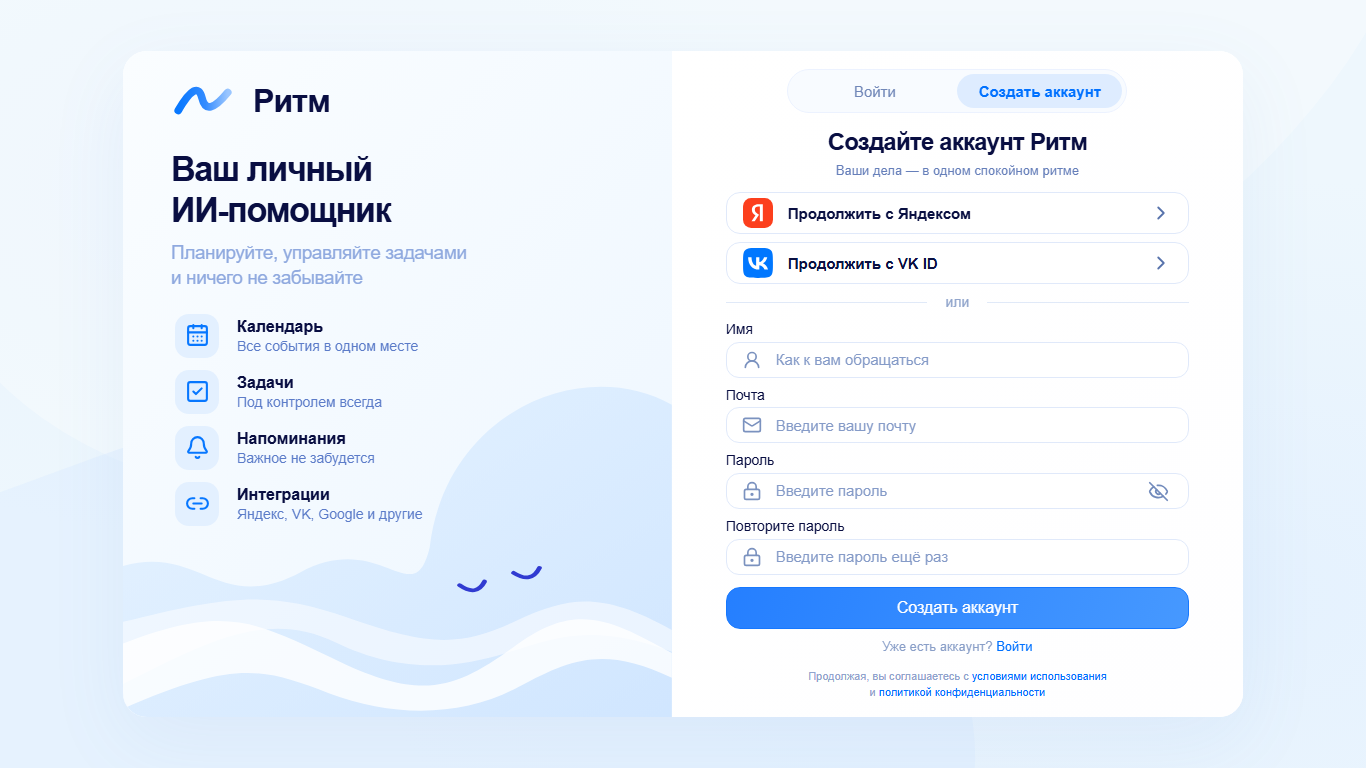
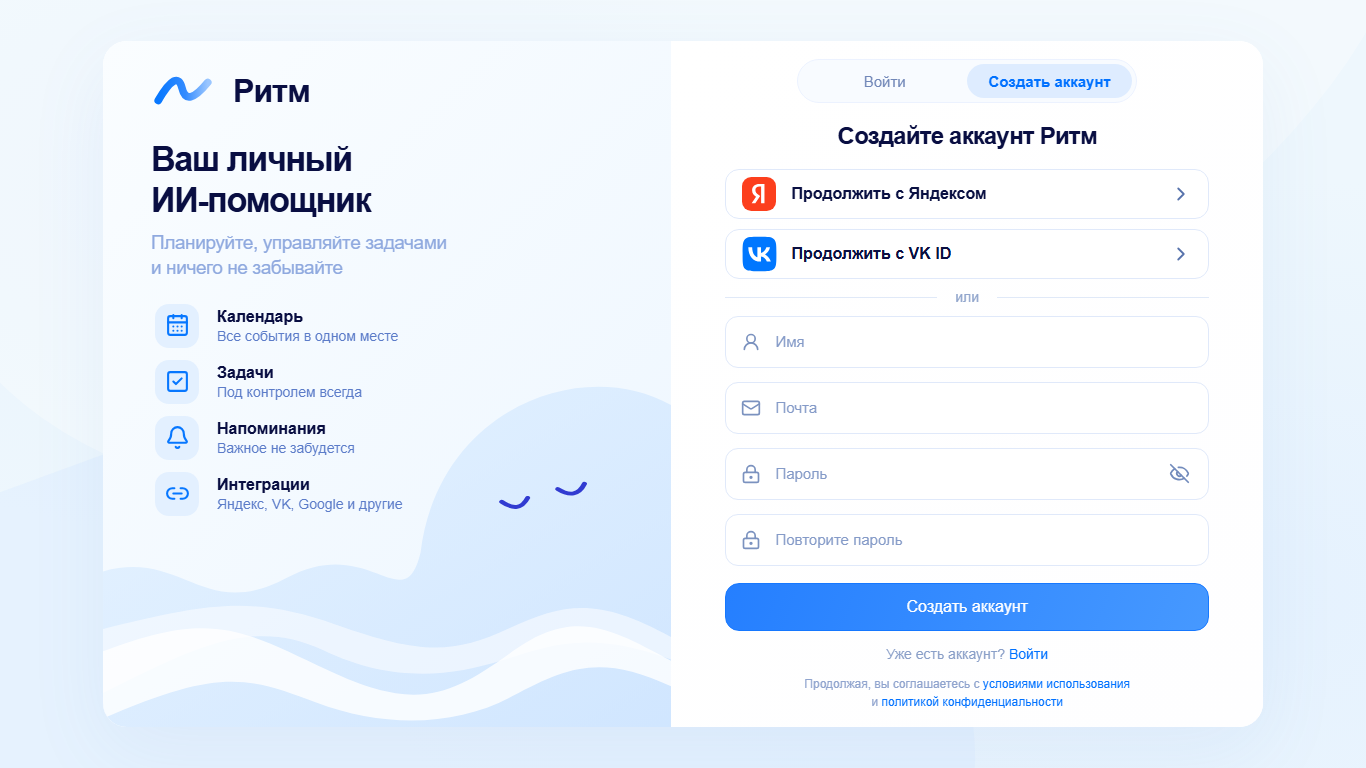
fix(auth): animate tabs and move labels into larger fields

diff --git a/web/src/styles/auth.css b/web/src/styles/auth.css
@@ -1,23 +1,28 @@
 .auth-page{min-height:100dvh;padding:32px max(20px,5vw);display:flex;justify-content:center;align-items:center;color:#090e42;background:radial-gradient(ellipse at 22% 24%,#dcecff66,transparent 44%),radial-gradient(ellipse at 88% 78%,#dcecff88,transparent 50%),#eef7fd;position:relative;isolation:isolate;font-family:Arial,'Segoe UI',sans-serif}
 html:has(.auth-page),html:has(.auth-splash){scrollbar-gutter:auto}
 .auth-page::before,.auth-page::after{content:'';position:fixed;z-index:-1;border-radius:47%;background:#fff5;pointer-events:none;width:115vw;height:68vw;transform:rotate(-20deg);top:-35vw;left:-9vw}.auth-page::after{top:58vh;left:-42vw;background:#d9ecff66}
-.auth-container{--form-gap:14px;--field-height:44px;--label-gap:6px;--oauth-height:54px;--primary-height:48px;width:1120px;max-width:100%;border-radius:24px;overflow:hidden;display:grid;grid-template-columns:49% 51%;box-shadow:0 24px 80px #548ac814;background:white;animation:auth-enter .6s cubic-bezier(.2,.7,.2,1) both;transition:opacity .24s ease,transform .24s ease}.auth-success{opacity:0;transform:scale(.985)}
+.auth-container{--form-gap:16px;--field-height:56px;--oauth-height:54px;--primary-height:50px;width:1160px;max-width:100%;border-radius:24px;overflow:hidden;display:grid;grid-template-columns:49% 51%;box-shadow:0 24px 80px #548ac814;background:white;animation:auth-enter .6s cubic-bezier(.2,.7,.2,1) both;transition:opacity .24s ease,transform .24s ease}.auth-success{opacity:0;transform:scale(.985)}
 .auth-information{padding:38px 48px;position:relative;overflow:hidden;background:linear-gradient(135deg,#fafdff,#edf6ff)}.auth-brand{display:flex;align-items:center;gap:18px;font-size:32px;font-weight:700;letter-spacing:-.9px;position:relative;z-index:1}.auth-brand .brand-mark,.auth-mobile-brand .brand-mark{color:#2783ff;width:64px;height:40px}.auth-brand,.auth-pitch,.auth-features{animation:auth-enter .65s cubic-bezier(.2,.7,.2,1) both}
 .auth-pitch{margin-top:36px;position:relative;z-index:1;animation-delay:.07s}.auth-pitch h1{font-size:38px;letter-spacing:-1.3px;line-height:1.21;font-weight:720}.auth-pitch>p{color:#8fa9df;font-size:21px;line-height:1.3;margin-top:10px;letter-spacing:-.4px}.auth-features{position:relative;z-index:1;padding:0;margin:28px 0 0 4px;list-style:none;display:grid;gap:14px;animation-delay:.14s}.auth-features li{display:flex;align-items:center;gap:18px}.auth-features li>span{display:grid;place-items:center;width:44px;height:44px;flex-shrink:0;border-radius:14px;background:#e3f0ff;color:#0777ff}.auth-features li>span>svg{width:25px;height:25px}.auth-features strong{font-size:16px;font-weight:650}.auth-features p{font-size:14px;color:#5c7cc9;margin-top:2px}
 .auth-waves{position:absolute;bottom:-4px;left:0;width:100%;height:60%;pointer-events:none}.auth-wave-face{animation:auth-float 6s ease-in-out infinite}.auth-card{padding:30px 54px 26px;display:flex;flex-direction:column;min-width:0;background:linear-gradient(130deg,#fff,#fefeff)}.auth-mobile-brand{display:none}
-.auth-segment{position:relative;align-self:center;width:340px;max-width:100%;border:1px solid #ecf2ff;border-radius:22px;background:#f8fbff;height:44px;padding:4px;display:grid;grid-template-columns:1fr 1fr;flex-shrink:0}.auth-segment>span{position:absolute;top:4px;bottom:4px;left:4px;width:calc(50% - 4px);border-radius:17px;background:#deecff;transition:transform .32s cubic-bezier(.2,.7,.2,1)}.auth-segment>span.register-selected{transform:translateX(100%)}.auth-segment button{position:relative;z-index:1;padding:0;border:0;background:transparent;color:#7187b8;font-size:15px}.auth-segment button[aria-selected='true']{color:#0071ff;font-weight:650}
-.auth-experience{opacity:1;transform:translateX(0);transition:opacity .16s ease,transform .2s ease}.auth-switching{opacity:0;transform:translateX(-8px)}.auth-welcome{text-align:center;margin:24px -12px 22px}.auth-welcome h2{font-size:28px;font-weight:700;letter-spacing:-.8px;line-height:1.25}.auth-welcome p{color:#667fba;font-size:15px;line-height:1.3;margin-top:8px}.auth-oauth{display:grid;gap:10px}.auth-oauth>button{border:1px solid #e0e9fa;border-radius:14px;min-height:var(--oauth-height);display:flex;align-items:center;gap:15px;padding:7px 16px;color:#0a1042;background:#fff;text-align:left;font-size:16px;font-weight:550;transition:transform .18s ease,box-shadow .18s ease,border-color .18s ease}.auth-oauth>button>svg{margin-left:auto;color:#5873ac;flex-shrink:0}.auth-oauth>button:hover:not(:disabled){transform:translateY(-1px);border-color:#a5c8ff;box-shadow:0 5px 15px #336bc40d}.auth-oauth>button:active:not(:disabled){transform:scale(.99)}
+.auth-segment{position:relative;align-self:center;width:340px;max-width:100%;border:1px solid #ecf2ff;border-radius:22px;background:#f8fbff;height:44px;padding:4px;display:grid;grid-template-columns:1fr 1fr;flex-shrink:0}.auth-segment>span{position:absolute;top:4px;bottom:4px;left:4px;width:calc(50% - 4px);border-radius:17px;background:#deecff;transition:transform .48s cubic-bezier(.22,1,.36,1)}.auth-segment>span.register-selected{transform:translateX(100%)}.auth-segment button{position:relative;z-index:1;padding:0;border:0;background:transparent;color:#7187b8;font-size:15px}.auth-segment button[aria-selected='true']{color:#0071ff;font-weight:650}
+.auth-experience{display:flow-root;animation:auth-form-enter .4s cubic-bezier(.22,1,.36,1)}.auth-experience-size{overflow:clip}.auth-welcome{text-align:center;margin:24px -12px 22px}.auth-welcome h2{font-size:28px;font-weight:700;letter-spacing:-.8px;line-height:1.25}.auth-welcome p{color:#667fba;font-size:15px;line-height:1.3;margin-top:8px}.auth-oauth{display:grid;gap:10px}.auth-oauth>button{border:1px solid #e0e9fa;border-radius:14px;min-height:var(--oauth-height);display:flex;align-items:center;gap:15px;padding:7px 16px;color:#0a1042;background:#fff;text-align:left;font-size:16px;font-weight:550;transition:transform .18s ease,box-shadow .18s ease,border-color .18s ease}.auth-oauth>button>svg{margin-left:auto;color:#5873ac;flex-shrink:0}.auth-oauth>button:hover:not(:disabled){transform:translateY(-1px);border-color:#a5c8ff;box-shadow:0 5px 15px #336bc40d}.auth-oauth>button:active:not(:disabled){transform:scale(.99)}
 .oauth-logo{width:34px;height:34px;display:flex;align-items:center;justify-content:center;flex-shrink:0}.oauth-logo img{display:block;width:100%;height:auto;flex-shrink:0}.oauth-logo-vk img{width:127.2727%}.auth-divider{display:flex;align-items:center;gap:18px;margin:18px 0;color:#91a5cc;font-size:14px;line-height:1.2}.auth-divider span{height:1px;flex:1;background:#e0e9f8}
-.auth-form{display:flex;flex-direction:column;gap:var(--form-gap)}.auth-label{display:flex;flex-direction:column;gap:var(--label-gap);font-size:14px;line-height:1.2}.auth-input{display:flex;align-items:center;border:1px solid #e0e9fa;border-radius:13px;height:var(--field-height);color:#7b92bf;padding:0 15px;gap:14px;background:#fff;transition:box-shadow .2s ease,border-color .2s ease}.auth-input:focus-within{border-color:#72aaff;box-shadow:0 0 0 4px #1679ff12}.auth-input>svg{flex-shrink:0;width:20px;height:20px}.auth-input input{width:100%;min-width:0;outline:0;border:0;border-radius:0;padding:0;background:transparent;font-size:15px;line-height:1.3;box-shadow:none}.auth-input input::placeholder{color:#859bc8}.auth-input button{border:0;background:none;color:#728bbc;display:grid;place-items:center;padding:4px;margin-right:0}.auth-forgot{align-self:flex-end;color:#0071ff;font-size:13px;line-height:1.3;border:0;background:none;padding:0 4px;margin-top:-4px}
+.auth-form{display:flex;flex-direction:column;gap:var(--form-gap)}.auth-label{display:block;line-height:1.2}.auth-input{display:flex;align-items:center;border:1px solid #e0e9fa;border-radius:13px;height:var(--field-height);color:#7b92bf;padding:0 15px;gap:14px;background:#fff;transition:box-shadow .2s ease,border-color .2s ease}.auth-input:focus-within{border-color:#72aaff;box-shadow:0 0 0 4px #1679ff12}.auth-input>svg{flex-shrink:0;width:20px;height:20px}.auth-input-content{position:relative;flex:1;min-width:0;height:100%;display:flex;align-items:center}.auth-input input{width:100%;height:100%;min-width:0;outline:0;border:0;border-radius:0;padding:15px 0 0;background:transparent;font-size:16px;line-height:1.3;box-shadow:none}.auth-input-label{position:absolute;left:0;top:50%;transform:translateY(-50%);font-size:15px;color:#859bc8;pointer-events:none;transition:top .18s ease,transform .18s ease,font-size .18s ease,color .18s ease}.auth-input:focus-within .auth-input-label,.auth-input input:not(:placeholder-shown)+.auth-input-label{top:7px;transform:none;font-size:11px;color:#667fba}.auth-input button{border:0;background:none;color:#728bbc;display:grid;place-items:center;width:38px;height:38px;padding:8px;margin-right:-6px;flex-shrink:0}.auth-forgot{align-self:flex-end;color:#0071ff;font-size:13px;line-height:1.3;border:0;background:none;padding:0 4px;margin-top:-4px}
 .auth-primary{border:1px solid #1678ff;border-radius:14px;min-height:var(--primary-height,56px);width:100%;padding:9px 16px;display:flex;align-items:center;justify-content:center;gap:12px;background:linear-gradient(110deg,#257fff,#50a0ff);color:#fff;font-size:16px;font-weight:500;transition:transform .2s ease,box-shadow .2s ease,background-position .3s ease;background-size:130% 100%}.auth-form>.auth-primary{margin-top:3px}.auth-primary:hover:not(:disabled){transform:translateY(-1px);background-position:100% 0;box-shadow:0 7px 18px #287eff29}.auth-primary:active:not(:disabled){transform:scale(.99)}.auth-primary:disabled{opacity:.72}.auth-alternate{text-align:center;color:#8a9fc8;margin-top:14px;font-size:14px;line-height:1.3}.auth-alternate button{padding:0;color:#0071ff;border:0;background:none}.auth-legal{text-align:center;font-size:12px;color:#90a4ce;line-height:1.5;margin-top:auto;padding-top:22px}.auth-legal a{color:#0071ff}
 .auth-error,.auth-help{border-radius:12px;padding:11px 14px;background:#fff1f2;color:#b32c46;font-size:14px;line-height:1.45;animation:auth-enter .2s ease both}.auth-help{color:#5873aa;background:#eff6ff}.auth-register-field{display:grid;grid-template-rows:0fr;transition:grid-template-rows .32s ease;margin-top:calc(-1 * var(--form-gap))}.auth-register-field>div{overflow:hidden}.auth-register-field.expanded{grid-template-rows:1fr;margin-top:0}.auth-spinner{animation:auth-spin .9s linear infinite}
-.auth-register{--form-gap:10px;--field-height:38px;--label-gap:4px;--oauth-height:44px;--primary-height:44px}.auth-register .auth-card{padding-top:22px;padding-bottom:20px}.auth-register .auth-welcome{margin-top:16px;margin-bottom:14px}.auth-register .auth-welcome h2{font-size:26px}.auth-register .auth-welcome p{margin-top:6px;font-size:14px}.auth-register .auth-oauth{gap:8px}.auth-register .auth-oauth>button{padding-top:5px;padding-bottom:5px;font-size:15px}.auth-register .oauth-logo{width:30px;height:30px}.auth-register .auth-divider{margin:12px 0}.auth-register .auth-alternate{margin-top:10px;font-size:13px}.auth-register .auth-legal{padding-top:14px;font-size:11px}
+.auth-register{--form-gap:16px;--field-height:56px;--oauth-height:52px;--primary-height:50px}.auth-register .auth-card{padding-top:28px;padding-bottom:26px}.auth-register .auth-welcome{margin-top:24px;margin-bottom:24px}.auth-register .auth-welcome h2{font-size:28px}.auth-register .auth-oauth{gap:10px}.auth-register .auth-oauth>button{padding-top:7px;padding-bottom:7px;font-size:16px}.auth-register .oauth-logo{width:34px;height:34px}.auth-register .auth-divider{margin:18px 0}.auth-register .auth-alternate{margin-top:14px;font-size:14px}.auth-register .auth-legal{padding-top:18px;font-size:12px}
 .auth-splash{min-height:100dvh;display:flex;flex-direction:column;align-items:center;justify-content:center;gap:22px;color:#1979ff;background:#f3f8ff;font-size:24px}.auth-splash .auth-primary{width:200px}.auth-policy{max-width:700px;padding:44px;background:white;border-radius:24px;display:grid;gap:24px;line-height:1.6}.auth-policy h1{font-size:30px}
 .onboarding-card{position:relative;overflow:hidden;width:680px;min-height:690px;border-radius:26px;background:linear-gradient(150deg,#fff,#f0f7ff);padding:43px 65px;box-shadow:0 24px 80px #548ac814;text-align:center;animation:auth-enter .5s ease both}.onboarding-card>.auth-brand{justify-content:center;font-size:30px;gap:15px}.onboarding-card>.auth-brand .brand-mark{width:60px}.onboarding-card .auth-waves{height:34%;opacity:.6;z-index:0}.onboarding-step{position:relative;z-index:1;animation:auth-enter .35s ease both;padding-top:34px}.onboarding-symbol{display:grid;place-items:center;margin:0 auto 23px;width:82px;height:82px;border-radius:25px;color:#1678ff;background:#e5f0ff}.onboarding-symbol .brand-mark{width:55px}.onboarding-step h1{font-size:33px;letter-spacing:-.8px}.onboarding-step>p{margin:16px auto 26px;color:#748bb9;font-size:18px;line-height:1.5;max-width:450px}.onboarding-step .onboarding-note{font-size:14px;margin-top:-10px}.onboarding-later{border:0;background:none;color:#6b83b8;padding:18px}.onboarding-dots{position:relative;z-index:1;display:flex;gap:8px;justify-content:center;margin-top:32px}.onboarding-dots span{width:7px;height:7px;border-radius:50%;background:#ccddf4;transition:width .2s ease}.onboarding-dots .active{background:#2280ff;width:23px;border-radius:8px}
 .account-profile{display:flex;align-items:center;gap:16px;margin:20px 0}.account-avatar{display:grid;place-items:center;width:58px;height:58px;border-radius:50%;background:#e8f1ff;color:#1678ff;font-size:21px;overflow:hidden}.account-avatar img,.avatar img{width:100%;height:100%;object-fit:cover}.account-methods{display:grid;gap:12px;margin-bottom:22px}.account-methods>div{display:flex;align-items:center;justify-content:space-between}.account-methods span{color:#7385aa;font-size:14px}
+@keyframes auth-form-enter{from{opacity:0;transform:translateY(8px)}to{opacity:1;transform:translateY(0)}}@keyframes auth-form-fade{from{opacity:.45}to{opacity:1}}
 @keyframes auth-enter{from{opacity:0;transform:translateY(13px)}to{opacity:1;transform:translateY(0)}}@keyframes auth-float{0%,100%{transform:translateY(0)}50%{transform:translateY(-3px)}}@keyframes auth-spin{to{transform:rotate(360deg)}}
 @media(max-width:1100px){.auth-page{padding:24px}.auth-information{padding:32px}.auth-pitch h1{font-size:34px}.auth-pitch>p{font-size:18px}.auth-card{padding-left:32px;padding-right:32px}.auth-welcome h2{font-size:25px}.auth-features li{gap:14px}.auth-features p{font-size:13px}}
 @media(max-width:760px){.auth-page{padding:16px}.auth-container{display:block;border-radius:22px;width:450px}.auth-information{display:none}.auth-card{padding:22px 24px}.auth-mobile-brand{display:flex;align-items:center;justify-content:center;gap:12px;font-size:27px;font-weight:700;margin-bottom:18px}.auth-mobile-brand .brand-mark{width:50px;height:32px}.auth-segment{width:100%}.auth-welcome{margin:22px 0 20px}.auth-welcome h2{font-size:24px;letter-spacing:-.6px}.auth-welcome p{font-size:14px}.auth-oauth>button{font-size:15px;padding-left:13px;padding-right:13px;gap:12px}.auth-input{gap:12px;padding:0 13px}.auth-input input{font-size:16px}.auth-legal{font-size:11px;padding-top:18px}.auth-register .auth-mobile-brand{margin-bottom:14px}.onboarding-card{padding:30px 24px;min-height:650px}.onboarding-step h1{font-size:29px}.onboarding-step>p{font-size:16px}.onboarding-step .auth-primary{font-size:15px}.auth-policy{padding:26px}}
-@media(max-height:850px){.auth-page{padding-top:12px;padding-bottom:12px}.auth-container{--form-gap:12px;--oauth-height:48px;--primary-height:44px}.auth-card{padding-top:20px;padding-bottom:18px}.auth-welcome{margin-top:18px;margin-bottom:18px}.auth-welcome h2{font-size:25px}.auth-welcome p{margin-top:6px;font-size:14px}.auth-oauth{gap:8px}.auth-oauth>button{padding-top:6px;padding-bottom:6px}.auth-divider{margin:14px 0}.auth-alternate{margin-top:12px;font-size:13px}.auth-legal{padding-top:16px;font-size:11px}.auth-information{padding-top:30px}.auth-pitch{margin-top:28px}.auth-pitch h1{font-size:34px}.auth-pitch>p{font-size:19px}.auth-features{margin-top:23px;gap:12px}.auth-waves{height:55%}.auth-register{--form-gap:9px;--field-height:36px;--label-gap:4px;--oauth-height:42px;--primary-height:42px}.auth-register .auth-card{padding-top:18px;padding-bottom:16px}.auth-register .auth-welcome{margin-top:14px;margin-bottom:12px}.auth-register .auth-welcome h2{font-size:24px}.auth-register .auth-welcome p{font-size:13px}.auth-register .auth-divider{margin:10px 0}.auth-register .auth-legal{padding-top:12px}}
-@media(max-height:760px){.auth-page{padding-top:8px;padding-bottom:8px}.auth-container{--form-gap:10px;--field-height:40px;--oauth-height:42px;--primary-height:42px}.auth-card{padding-top:16px;padding-bottom:16px}.auth-welcome{margin-top:14px;margin-bottom:14px}.auth-welcome h2{font-size:24px}.auth-divider{margin:12px 0}.auth-oauth>button{padding-top:5px;padding-bottom:5px}.oauth-logo{width:30px;height:30px}.auth-mobile-brand{font-size:24px;margin-bottom:12px}.auth-mobile-brand .brand-mark{width:44px;height:28px}.auth-information{padding-top:24px}.auth-pitch{margin-top:24px}.auth-pitch h1{font-size:32px}.auth-pitch>p{font-size:18px}.auth-features{gap:10px;margin-top:20px}.auth-features li>span{width:40px;height:40px}.auth-register{--form-gap:8px;--field-height:34px;--label-gap:3px;--oauth-height:38px;--primary-height:40px}.auth-register .auth-card{padding-top:12px;padding-bottom:12px}.auth-register .auth-segment{height:38px}.auth-register .auth-welcome{margin-top:12px;margin-bottom:10px}.auth-register .auth-welcome h2{font-size:23px}.auth-register .auth-welcome p{margin-top:4px;font-size:12px}.auth-register .auth-oauth{gap:6px}.auth-register .auth-oauth>button{padding-top:4px;padding-bottom:4px}.auth-register .oauth-logo{width:28px;height:28px}.auth-register .auth-divider{margin:8px 0}.auth-register .auth-label{font-size:13px}.auth-register .auth-alternate{margin-top:8px;font-size:12px}.auth-register .auth-legal{padding-top:10px;font-size:10px}.auth-register .auth-mobile-brand{margin-bottom:10px}}
+@media(max-height:850px){.auth-page{padding-top:12px;padding-bottom:12px}.auth-container{--form-gap:14px;--field-height:54px;--oauth-height:50px;--primary-height:48px}.auth-card{padding-top:20px;padding-bottom:18px}.auth-welcome{margin-top:18px;margin-bottom:18px}.auth-welcome h2{font-size:25px}.auth-welcome p{margin-top:6px;font-size:14px}.auth-oauth{gap:8px}.auth-oauth>button{padding-top:6px;padding-bottom:6px}.auth-divider{margin:14px 0}.auth-alternate{margin-top:12px;font-size:13px}.auth-legal{padding-top:16px;font-size:11px}.auth-information{padding-top:30px}.auth-pitch{margin-top:28px}.auth-pitch h1{font-size:34px}.auth-pitch>p{font-size:19px}.auth-features{margin-top:23px;gap:12px}.auth-waves{height:55%}.auth-register{--form-gap:14px;--field-height:52px;--oauth-height:48px;--primary-height:48px}.auth-register .auth-card{padding-top:18px;padding-bottom:16px}.auth-register .auth-welcome{margin-top:18px;margin-bottom:18px}.auth-register .auth-welcome h2{font-size:24px}.auth-register .auth-divider{margin:10px 0}.auth-register .auth-legal{padding-top:12px}}
+@media(max-height:760px){.auth-page{padding-top:8px;padding-bottom:8px}.auth-container{--form-gap:12px;--field-height:50px;--oauth-height:46px;--primary-height:46px}.auth-card{padding-top:16px;padding-bottom:16px}.auth-welcome{margin-top:14px;margin-bottom:14px}.auth-welcome h2{font-size:24px}.auth-divider{margin:12px 0}.auth-oauth>button{padding-top:5px;padding-bottom:5px}.oauth-logo{width:30px;height:30px}.auth-mobile-brand{font-size:24px;margin-bottom:12px}.auth-mobile-brand .brand-mark{width:44px;height:28px}.auth-information{padding-top:24px}.auth-pitch{margin-top:24px}.auth-pitch h1{font-size:32px}.auth-pitch>p{font-size:18px}.auth-features{gap:10px;margin-top:20px}.auth-features li>span{width:40px;height:40px}.auth-register{--form-gap:12px;--field-height:48px;--oauth-height:46px;--primary-height:46px}.auth-register .auth-card{padding-top:12px;padding-bottom:12px}.auth-register .auth-segment{height:38px}.auth-register .auth-welcome{margin-top:16px;margin-bottom:16px}.auth-register .auth-welcome h2{font-size:23px}.auth-register .auth-oauth{gap:8px}.auth-register .auth-oauth>button{padding-top:4px;padding-bottom:4px}.auth-register .oauth-logo{width:28px;height:28px}.auth-register .auth-divider{margin:8px 0}.auth-register .auth-alternate{margin-top:8px;font-size:12px}.auth-register .auth-legal{padding-top:10px;font-size:10px}.auth-register .auth-mobile-brand{margin-bottom:10px}}
 @media(prefers-reduced-motion:reduce){.auth-page *,.auth-page *::before,.auth-page *::after{animation:none!important;transition:none!important}.auth-oauth>button:hover,.auth-primary:hover{transform:none}}
+
+/* Keep the requested tab feedback subtle even when the browser disables decorative motion. */
+.auth-page .auth-segment>span{transition:transform .48s cubic-bezier(.22,1,.36,1)!important}
+@media(prefers-reduced-motion:reduce){.auth-page .auth-segment>span{transition-duration:.3s!important}.auth-page .auth-experience{animation:auth-form-fade .2s ease!important}}

diff --git a/web/src/pages/Auth/AuthPage.tsx b/web/src/pages/Auth/AuthPage.tsx
@@ -1,13 +1,17 @@
-import { useRef, useState } from 'react';
-import { CalendarDays, SquareCheck, Bell, Link2, Mail, LockKeyhole, UserRound, Eye, EyeOff, ChevronRight, LoaderCircle } from 'lucide-react';
+import { useRef, useState, type InputHTMLAttributes, type ReactNode } from 'react';
+import { CalendarDays, SquareCheck, Bell, Link2, Mail, LockKeyhole, UserRound, Eye, EyeOff, ChevronRight, LoaderCircle, type LucideIcon } from 'lucide-react';
 import { Navigate, useSearchParams } from 'react-router-dom';
 import { BrandMark } from '../../components/Brand';
 import { useAuth } from '../../app/AuthContext';
 import { errorMessage } from '../../api/client';
+import { AutoHeight } from '../../components/motion/AutoHeight';
 import yandexLogo from '../../assets/oauth/yandex.svg';
 import vkLogo from '../../assets/oauth/vk.svg';
 export function AuthWaves() {
-  return <svg className="auth-waves" viewBox="0 0 680 590" preserveAspectRatio="none" aria-hidden="true"><defs><linearGradient id="auth-water" x1="0" y1="0" x2="1" y2="1"><stop stopColor="#dceeff"/><stop offset="1" stopColor="#bddbff"/></linearGradient></defs><path fill="url(#auth-water)" opacity=".6" d="M0 340C95 305 120 420 220 350S360 418 380 310C400 90 570 0 680 80V590H0Z"/><path fill="#f7fbff" opacity=".65" d="M0 430C125 390 178 377 278 423S417 471 486 429S595 382 680 443V478C577 428 529 459 475 480S350 518 263 463S99 467 0 530Z"/><path fill="#fff" opacity=".8" d="M0 465C130 400 165 430 270 495S416 535 490 465S609 430 680 480V520C598 470 558 487 490 535S336 585 255 545S140 490 0 570Z"/><g className="auth-wave-face" fill="none" stroke="#313bd1" strokeWidth="6" strokeLinecap="round"><path d="M417 371q21 19 31-6"/><path d="M484 351q22 18 32-8"/></g></svg>;
+  return <svg className="auth-waves" viewBox="0 0 680 590" preserveAspectRatio="none" aria-hidden="true"><defs><linearGradient id="auth-water" x1="0" y1="0" x2="1" y2="1"><stop stopColor="#dceeff"/><stop offset="1" stopColor="#bddbff"/></linearGradient></defs><path fill="url(#auth-water)" opacity=".6" d="M0 340C95 305 120 420 220 350S360 418 380 310C400 90 570 0 680 80V590H0Z"/><path fill="#f7fbff" opacity=".65" d="M0 430C125 390 178 377 278 423S417 471 486 429S595 382 680 443V478C577 428 529 459 475 480S350 518 263 463S99 467 0 530Z"/><path fill="#fff" opacity=".8" d="M0 465C130 400 165 430 270 495S416 535 490 465S609 430 680 480V520C598 470 558 487 490 535S336 585 255 545S140 490 0 570Z"/><g className="auth-wave-face" fill="none" stroke="#313bd1" strokeWidth="6" strokeLinecap="round"><path d="M477 231q21 19 31-6"/><path d="M544 211q22 18 32-8"/></g></svg>;
+}
+function AuthField({ label, icon: Icon, action, ...input }: InputHTMLAttributes<HTMLInputElement> & { label: string; icon: LucideIcon; action?: ReactNode }) {
+  return <label className="auth-label" htmlFor={input.id}><span className="auth-input"><Icon size={22}/><span className="auth-input-content"><input {...input} aria-label={label} placeholder=" "/><span className="auth-input-label">{label}</span></span>{action}</span></label>;
 }
 const oauthErrors: Record<string, string> = { oauth_account_exists: 'Войдите в существующий аккаунт и подключите этот способ входа в настройках.', oauth_invalid: 'Не удалось завершить вход. Попробуйте ещё раз.', oauth_cancelled: 'Авторизация была отменена', oauth_unavailable: 'Вход через этот сервис ещё не настроен. Используйте почту.', session: 'Сессия истекла. Войдите снова.' };
 export function AuthPage() {
@@ -16,26 +20,26 @@ export function AuthPage() {
   const [name, setName] = useState(''); const [email, setEmail] = useState(''); const [password, setPassword] = useState(''); const [confirmation, setConfirmation] = useState(''); const [visible, setVisible] = useState(false);
   const [error, setError] = useState(oauthErrors[params.get('error') || ''] || ''); const [help, setHelp] = useState(''); const isRegister = mode === 'register';
   if (user && phase !== 'success') return <Navigate to={user.onboarding_completed ? '/' : '/onboarding'} replace/>;
-  function switchMode(next: 'login' | 'register') { if (next === mode || busy || phase) return; setPhase('switching'); setError(''); setHelp(''); window.setTimeout(() => { setMode(next); setConfirmation(''); setPhase(''); }, window.matchMedia?.('(prefers-reduced-motion: reduce)')?.matches ? 0 : 160); }
+  function switchMode(next: 'login' | 'register') { if (next === mode || busy || phase) return; setMode(next); setConfirmation(''); setError(''); setHelp(''); }
   async function submit(e: React.FormEvent) { e.preventDefault(); if (locked.current) return; setError(''); setHelp('');
     if (isRegister && password.length < 10) { setError('Пароль должен содержать от 10 символов'); return; } if (isRegister && password !== confirmation) { setError('Пароли не совпадают'); return; }
     locked.current = true; setBusy('email'); try { if (isRegister) await register(name.trim(), email.trim(), password, confirmation); else await login(email.trim(), password); setPhase('success'); window.setTimeout(() => { setPhase(''); }, window.matchMedia?.('(prefers-reduced-motion: reduce)')?.matches ? 0 : 240); } catch (e) { setError(errorMessage(e)); } finally { setBusy(''); locked.current = false; }
   }
   function oauth(provider: 'yandex' | 'vk') { if (locked.current || phase) return; locked.current = true; setBusy(provider); window.location.assign(`/api/auth/${provider}/start`); }
-  const passwordInput = (repeat = false) => <label className="auth-label">{repeat ? 'Повторите пароль' : 'Пароль'}<span className="auth-input"><LockKeyhole size={22}/><input type={visible ? 'text' : 'password'} autoComplete={isRegister ? 'new-password' : 'current-password'} value={repeat ? confirmation : password} onChange={e => repeat ? setConfirmation(e.target.value) : setPassword(e.target.value)} placeholder={repeat ? 'Введите пароль ещё раз' : 'Введите пароль'} required maxLength={1024} aria-invalid={!!error}/>{!repeat && <button type="button" aria-label={visible ? 'Скрыть пароль' : 'Показать пароль'} onClick={() => setVisible(!visible)}>{visible ? <Eye size={21}/> : <EyeOff size={21}/>}</button>}</span></label>;
+  const passwordInput = (repeat = false) => <AuthField id={repeat ? 'auth-password-confirmation' : 'auth-password'} label={repeat ? 'Повторите пароль' : 'Пароль'} icon={LockKeyhole} type={visible ? 'text' : 'password'} autoComplete={isRegister ? 'new-password' : 'current-password'} value={repeat ? confirmation : password} onChange={e => repeat ? setConfirmation(e.target.value) : setPassword(e.target.value)} required maxLength={1024} aria-invalid={!!error} action={!repeat && <button type="button" aria-label={visible ? 'Скрыть пароль' : 'Показать пароль'} onClick={() => setVisible(!visible)}>{visible ? <Eye size={21}/> : <EyeOff size={21}/>}</button>}/>;
   return <main className="auth-page"><div className={`auth-container ${isRegister ? 'auth-register' : ''} ${phase === 'success' ? 'auth-success' : ''}`}>
     <section className="auth-information"><div className="auth-brand"><BrandMark gradient/><span>Ритм</span></div><div className="auth-pitch"><h1>Ваш личный<br/>ИИ-помощник</h1><p>Планируйте, управляйте задачами<br/>и ничего не забывайте</p></div><ul className="auth-features">{[{ icon: CalendarDays, title: 'Календарь', text: 'Все события в одном месте' }, { icon: SquareCheck, title: 'Задачи', text: 'Под контролем всегда' }, { icon: Bell, title: 'Напоминания', text: 'Важное не забудется' }, { icon: Link2, title: 'Интеграции', text: 'Яндекс, VK, Google и другие' }].map(({ icon: Icon, title, text }) => <li key={title}><span><Icon size={29} strokeWidth={2}/></span><div><strong>{title}</strong><p>{text}</p></div></li>)}</ul><AuthWaves/></section>
     <section className="auth-card" aria-label="Авторизация"><div className="auth-mobile-brand"><BrandMark gradient/><span>Ритм</span></div><div className="auth-segment" role="tablist" aria-label="Способ авторизации"><span className={isRegister ? 'register-selected' : ''}/><button type="button" role="tab" aria-selected={!isRegister} disabled={!!busy || !!phase} onClick={() => switchMode('login')}>Войти</button><button type="button" role="tab" aria-selected={isRegister} disabled={!!busy || !!phase} onClick={() => switchMode('register')}>Создать аккаунт</button></div>
-      <div className={`auth-experience ${isRegister ? 'register-mode' : ''} ${phase === 'switching' ? 'auth-switching' : ''}`}><header className="auth-welcome"><h2>{isRegister ? 'Создайте аккаунт Ритм' : 'Добро пожаловать в Ритм'}</h2><p>{isRegister ? 'Ваши дела — в одном спокойном ритме' : 'Войдите, чтобы продолжить работу'}</p></header>
+      <AutoHeight className="auth-experience-size"><div key={mode} className="auth-experience"><header className="auth-welcome"><h2>{isRegister ? 'Создайте аккаунт Ритм' : 'Добро пожаловать в Ритм'}</h2>{!isRegister && <p>Войдите, чтобы продолжить работу</p>}</header>
       <div className="auth-oauth"><button type="button" disabled={!!busy || !!phase} onClick={() => oauth('yandex')}><span aria-hidden="true" className="oauth-logo"><img src={yandexLogo} alt=""/></span><span>{busy === 'yandex' ? 'Переходим в Яндекс…' : `${isRegister ? 'Продолжить с Яндексом' : 'Войти через Яндекс'}`}</span>{busy === 'yandex' ? <LoaderCircle className="auth-spinner" size={20}/> : <ChevronRight size={22}/>}</button><button type="button" disabled={!!busy || !!phase} onClick={() => oauth('vk')}><span aria-hidden="true" className="oauth-logo oauth-logo-vk"><img src={vkLogo} alt=""/></span><span>{busy === 'vk' ? 'Переходим в VK ID…' : isRegister ? 'Продолжить с VK ID' : 'Войти через VK ID'}</span>{busy === 'vk' ? <LoaderCircle className="auth-spinner" size={20}/> : <ChevronRight size={22}/>}</button></div>
       <div className="auth-divider"><span/>или<span/></div><form onSubmit={e => void submit(e)} className="auth-form">
-        <div className={`auth-register-field ${isRegister ? 'expanded' : ''}`}><div>{isRegister && <label className="auth-label">Имя<span className="auth-input"><UserRound size={22}/><input autoComplete="name" value={name} onChange={e => setName(e.target.value)} placeholder="Как к вам обращаться" required maxLength={100}/></span></label>}</div></div>
-        <label className="auth-label">Почта<span className="auth-input"><Mail size={23}/><input type="email" autoComplete="email" value={email} onChange={e => setEmail(e.target.value)} placeholder="Введите вашу почту" required maxLength={254} aria-invalid={!!error}/></span></label>{passwordInput()}
+        <div className={`auth-register-field ${isRegister ? 'expanded' : ''}`}><div>{isRegister && <AuthField id="auth-name" label="Имя" icon={UserRound} autoComplete="name" value={name} onChange={e => setName(e.target.value)} required maxLength={100}/>}</div></div>
+        <AuthField id="auth-email" label="Почта" icon={Mail} type="email" autoComplete="email" value={email} onChange={e => setEmail(e.target.value)} required maxLength={254} aria-invalid={!!error}/>{passwordInput()}
         <div className={`auth-register-field ${isRegister ? 'expanded' : ''}`}><div>{isRegister && passwordInput(true)}</div></div>
         {!isRegister && <button type="button" className="auth-forgot" onClick={() => { setHelp('Восстановление пароля по почте пока недоступно. Если вы подключали Яндекс или VK ID, войдите через этот сервис.'); setError(''); }}>Забыли пароль?</button>}
         {(error || help) && <p className={error ? 'auth-error' : 'auth-help'} role={error ? 'alert' : 'status'}>{error || help}</p>}
         <button type="submit" className="auth-primary" disabled={!!busy || !!phase}><span>{busy === 'email' ? isRegister ? 'Создаём аккаунт…' : 'Входим…' : phase === 'success' ? 'Готово' : isRegister ? 'Создать аккаунт' : 'Войти'}</span>{busy === 'email' && <LoaderCircle className="auth-spinner" size={20}/>}</button>
-      </form><p className="auth-alternate">{isRegister ? 'Уже есть аккаунт?' : 'Нет аккаунта?'} <button type="button" disabled={!!busy || !!phase} onClick={() => switchMode(isRegister ? 'login' : 'register')}>{isRegister ? 'Войти' : 'Создать аккаунт'}</button></p></div>
+      </form><p className="auth-alternate">{isRegister ? 'Уже есть аккаунт?' : 'Нет аккаунта?'} <button type="button" disabled={!!busy || !!phase} onClick={() => switchMode(isRegister ? 'login' : 'register')}>{isRegister ? 'Войти' : 'Создать аккаунт'}</button></p></div></AutoHeight>
       <p className="auth-legal">Продолжая, вы соглашаетесь с <a href="/terms">условиями использования</a><br/>и <a href="/privacy">политикой конфиденциальности</a></p>
     </section></div></main>;
 }

diff --git a/web/e2e/auth.spec.ts b/web/e2e/auth.spec.ts
@@ -4,6 +4,37 @@ import { mkdir } from 'node:fs/promises';
 import { resolve } from 'node:path';
 const password = 'test password 12345';
 async function settle(page: Page) { await page.evaluate(async () => { await Promise.allSettled(document.getAnimations().filter(animation => animation.effect?.getComputedTiming().iterations !== Infinity).map(animation => animation.finished)); }); }
+test('auth tabs visibly slide in both directions and preserve entered values', async ({ page }) => {
+ for (const reducedMotion of ['no-preference', 'reduce'] as const) {
+  await page.emulateMedia({ reducedMotion }); await page.goto('/auth'); await settle(page);
+  await page.getByLabel('Почта', { exact: true }).fill('motion@example.test');
+  for (const name of ['Создать аккаунт', 'Войти']) {
+   const movement = await page.getByRole('tab', { name, exact: true }).evaluate(async button => {
+    const slider = button.parentElement!.querySelector('span')!; const from = slider.getBoundingClientRect().left; const positions: number[] = [];
+    (button as HTMLElement).click();
+    for (let frame = 0; frame < 40; frame++) { await new Promise(resolve => requestAnimationFrame(resolve)); positions.push(slider.getBoundingClientRect().left); }
+    return { from, to: positions.at(-1)!, positions };
+   });
+   expect(Math.abs(movement.to - movement.from)).toBeGreaterThan(50);
+   expect(movement.positions.some(position => position > Math.min(movement.from, movement.to) + 2 && position < Math.max(movement.from, movement.to) - 2)).toBe(true);
+   await expect(page.getByRole('tab', { name, exact: true })).toHaveAttribute('aria-selected', 'true');
+   await expect(page.getByLabel('Почта', { exact: true })).toHaveValue('motion@example.test');
+  }
+ }
+});
+test('registration uses persistent labels inside spacious fields', async ({ page }) => {
+ await page.setViewportSize({ width: 1366, height: 768 }); await page.goto('/auth'); await page.getByRole('tab', { name: 'Создать аккаунт' }).click(); await settle(page);
+ await expect(page.getByText('Ваши дела — в одном спокойном ритме')).toHaveCount(0);
+ for (const label of ['Имя', 'Почта', 'Пароль', 'Повторите пароль']) {
+  const field = page.getByLabel(label, { exact: true });
+  expect(await field.evaluate(input => {
+   const control = input.closest('.auth-input')!.getBoundingClientRect(); const label = input.parentElement!.querySelector('.auth-input-label')!.getBoundingClientRect();
+   return control.height >= 48 && label.top >= control.top && label.bottom <= control.bottom;
+  })).toBe(true);
+ }
+ await page.getByLabel('Имя', { exact: true }).fill('Анна'); await page.getByLabel('Почта', { exact: true }).focus();
+ await expect.poll(() => page.getByLabel('Имя', { exact: true }).evaluate(input => input.parentElement!.querySelector('.auth-input-label')!.getBoundingClientRect().bottom < input.getBoundingClientRect().top + input.getBoundingClientRect().height / 2)).toBe(true);
+});
 test('login and registration fit desktop and mobile windows without scrolling or clipping', async ({ page }) => {
  await page.emulateMedia({ reducedMotion: 'reduce' });
  for (const viewport of [{ width: 1536, height: 1024 }, { width: 1440, height: 900 }, { width: 1366, height: 768 }, { width: 1280, height: 720 }, { width: 593, height: 932 }, { width: 390, height: 844 }, { width: 360, height: 740 }]) {
